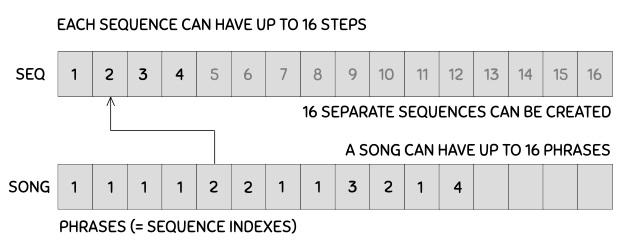
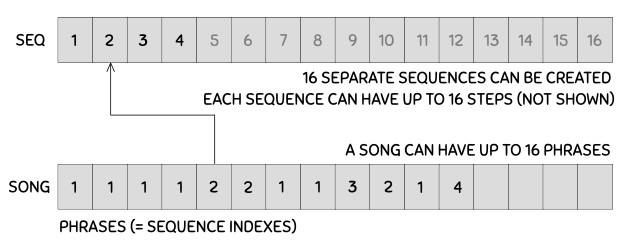
relayout PS16 block diag, fix typos in readme

Changed region(s): [[0.0302, 0.0565, 0.9968, 0.4798], [0.1812, 0.4516, 0.3625, 0.4798], [0.1812, 0.5081, 0.3323, 0.5363]]

diff --git a/README.md b/README.md
@@ -31,7 +31,7 @@ Details about each module are given below. Feedback and bug reports are always a
 
 ![IM](res/img/TwelveKey.jpg)
 
-A chainable keyboard controller for your virtual Rack. When multiple Twelve-Key modules are connected in series from left to right, only the octave of the left-most module needs to be set, all other downchain modules' octaves are set automatically. The aggregate output is that of the right-most module. To set up a chain of Twelve-Key modules, simply connect the three ouputs on the right side of a module to the three inputs of the next module beside it (typically to the right).
+A chainable keyboard controller for your virtual Rack. When multiple Twelve-Key modules are connected in series from left to right, only the octave of the left-most module needs to be set, all other down-chain modules' octaves are set automatically. The aggregate output is that of the right-most module. To set up a chain of Twelve-Key modules, simply connect the three outputs on the right side of a module to the three inputs of the next module beside it (typically to the right).
 
 Here are some specific details on each element on the faceplate of the module.
 
@@ -59,7 +59,7 @@ A three channel 32-step writable sequencer module. This sequencer was designed t
 
 Although the display shows note names (ex. C4#, D5, etc.), any voltage within the -10V to 10V range can be stored/played in the sequencer, whether it is used as a pitch CV or not, and whether it is quantized or not.
 
-Ideas: send the midi keyboard's CV into the the sequencer's CV in, and send the keyboard's gate signal into the sequencer's _write_ input. With autostep activated, each key-press will automatically be entered in sequence. Gate states and window selection can be done by pressing the 8 and 4 LED buttons respectively, located below and above the main display. 
+Ideas: send the midi keyboard's CV into the sequencer's CV in, and send the keyboard's gate signal into the sequencer's _write_ input. With autostep activated, each key-press will automatically be entered in sequence. Gate states and window selection can be done by pressing the 8 and 4 LED buttons respectively, located below and above the main display. 
 
 Here are some specific details on each element on the faceplate of the module. Familiarity with Fundamental SEQ-3 sequencer is recommended, as some operating principles are similar in both sequencers.
 
@@ -81,7 +81,7 @@ Here are some specific details on each element on the faceplate of the module. F
 
 * **Copy-Paste**: Copy and paste the CVs and gates of a channel into another channel. In a given channel, press the left button to copy the channel into a buffer, then select another channel and press the right button to paste. All 32 steps are copied irrespective of the STPES knob setting.
 
-* **Paste sync**: Determines whether to paste in real time (RT), on the next clock (CLK), or at the next sequence start (SEQ). Pending pastes are shown by a red LED beside CLK/SEQ, and if the selected channel changes, the paste opertion will be performed in the channel that was selected when the paste button was pressed. Pending pastes into the staging area (channel 4) are always done in realtime, irrespective of the state of the paste sync switch.
+* **Paste sync**: Determines whether to paste in real time (RT), on the next clock (CLK), or at the next sequence start (SEQ). Pending pastes are shown by a red LED beside CLK/SEQ, and if the selected channel changes, the paste operation will be performed in the channel that was selected when the paste button was pressed. Pending pastes into the staging area (channel 4) are always done in real time, irrespective of the state of the paste sync switch.
 
 * **Step L/R**: Steps the sequencer one step left or right. No effect on channels 1 to 3 when the sequencer is running.
 
@@ -141,9 +141,9 @@ Here are some specific details on elements of the faceplate which differ compare
 
 ![IM](res/img/PhraseSeq16.jpg)
 
-A 16 phrase sequencer module where each phrase is an index into a set of 16 defined sequences of 16 steps (maximum). CVs can be entered via a CV input when using an external keyboard controller or via the builtin keyboard on the module itself.
+A 16 phrase sequencer module where each phrase is an index into a set of 16 defined sequences of 16 steps (maximum). CVs can be entered via a CV input when using an external keyboard controller or via the built-in keyboard on the module itself.
 
-Ideas: If you need a 256-step sequence in one module, this is the sequencer for you!
+Ideas: If you need a 256-step sequence in a single module, this is the sequencer for you!
 
 The following block diagram shows how sequences and phrases relate to each other to create a song. In the diagram, a 12-bar blues pattern is created by setting the song length to 12, the step lengths to 8 (not visible in the figure), and then creating 4 sequences. The 12 phrases are indexes into the 4 sequences that were created.
 
@@ -155,7 +155,7 @@ Here are some specific details on elements of the faceplate. Familiarity with Fu
 
 * **Length**: When in SEQ mode, allows the arrow buttons to select the length of sequences (number of steps, the default is 16). All sequences have the same length. When in SONG mode, allows the arrow buttons to select the number of phrases in the song (the default is 4).
 
-* **Seq#**: In Seq mode, this number determines which sequence is being editied/played. In Song mode, this number determines the sequence index for the currently selected phrase; the selected phrase is shown in the 16 LEDs at the top of the module).
+* **Seq#**: In Seq mode, this number determines which sequence is being edited/played. In Song mode, this number determines the sequence index for the currently selected phrase; the selected phrase is shown in the 16 LEDs at the top of the module).
 
 * **Attach**: Allows the edit head to follow the run head (attach on). The position of the edit head is shown with a red LED, and the position of the run head is shown by a green LED. When in Sequence mode, the actual content of a step (i.e. note, oct, gates, slide) of the sequence can be modified in real time as the sequencer is advancing (_attach_ on), or manually by using the < and > buttons (_attach_ off).
 
@@ -167,17 +167,17 @@ Here are some specific details on elements of the faceplate. Familiarity with Fu
 
 * **Autostep**: Will automatically step the sequencer one step right on each write. This works with the _Write input_ only, and has no effect when entering notes with the onboard keys.
 
-* **Gate 1, 2**: Gate signal outputs for each channel at the current step. The duration of the gates corresponds to the high time of the clock signal. Gates can be turned on/off using the Gate buttons. Gate 2 is perfect for using as an acctent if desired.
+* **Gate 1, 2**: Gate signal outputs for each channel at the current step. The duration of the gates corresponds to the high time of the clock signal. Gates can be turned on/off using the Gate buttons. Gate 2 is perfect for using as an accent if desired.
 
 * **Slide**: Typical portamento between CVs of successive steps. Slide can be activated for a given step using the slide button. The slide duration (0 to 2 seconds) can be set using the small knob below the slide button. This knob's setting is not memorized for each step, it applies to the sequencer as a whole.
 
-* **Transpose**: Increse/decrease the CVs of the currently selected sequence by one semitone. Only available in Seq mode.
+* **Transpose**: Increase/decrease the CVs of the currently selected sequence by one semitone. Only available in Seq mode.
 
 * **Rotate**: Rotate (left or right) the steps of the currently selected sequence by one step. Only available in Seq mode.
 
 * **Copy-Paste**: Copy and paste the CVs, gates and slide states of a sequence into another sequence. Press the left button to copy the channel into a buffer, then select another sequence and press the right button to paste. All 16 steps are copied irrespective of the length of the sequences. Only available in Seq mode.
 
-* **Paste sync**: Determines whether to paste in real time (RT), on the next clock (CLK), or at the next sequence start (SEQ). Pending pastes are shown by a red LED beside CLK/SEQ, and if the selected sequence changes, the paste opertion will be performed in the sequence that was selected when the paste button was pressed.
+* **Paste sync**: Determines whether to paste in real time (RT), on the next clock (CLK), or at the next sequence start (SEQ). Pending pastes are shown by a red LED beside CLK/SEQ, and if the selected sequence changes, the paste operation will be performed in the sequence that was selected when the paste button was pressed.
 
 * **CV**: pitch CV output of the sequence/song the current step.
 
